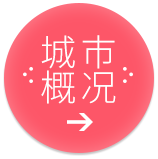
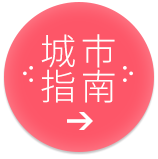
两个文案

diff --git a/PeachTravel/TravelPlan/PoiDetail/CityDetail/CityDetailTableViewController.m b/PeachTravel/TravelPlan/PoiDetail/CityDetail/CityDetailTableViewController.m
@@ -327,7 +327,7 @@ static NSString * const reuseIdentifier = @"travelNoteCell";
     [MobClick event:@"event_city_information"];
     SuperWebViewController *funOfCityWebCtl = [[SuperWebViewController alloc] init];
     funOfCityWebCtl.urlStr = _cityPoi.playGuide;
-    funOfCityWebCtl.titleStr = @"城市概况";;
+    funOfCityWebCtl.titleStr = @"城市指南";;
     [self.navigationController pushViewController:funOfCityWebCtl animated:YES];
 }
 
